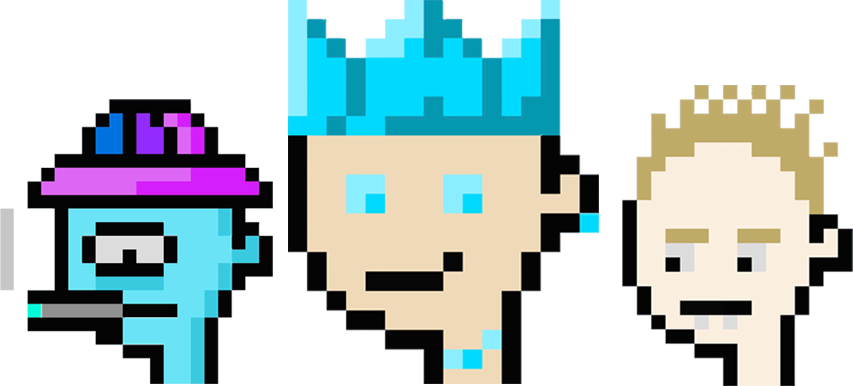
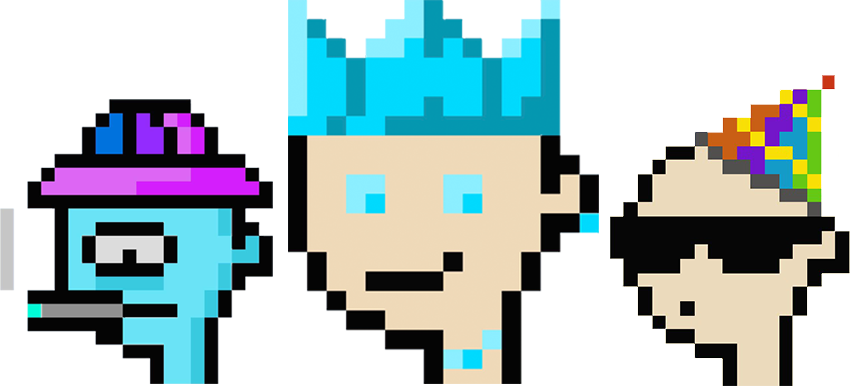
added new team members and updating mint whenever someone mints

Changed region(s): [[0.7011, 0.1865, 1.0, 1.0]]

diff --git a/src/components/Mint.js b/src/components/Mint.js
@@ -2,6 +2,7 @@ import React, { useEffect, useState } from "react";
 import { ethers } from "ethers";
 import { useContracts, useParty } from "../hooks";
 import { useMintQuery } from "../queries";
+import { WalletButton } from "../lib";
 import { usePriorityIsActive, usePriorityProvider } from "../lib/connectors";
 import { LoadingButton } from "../lib/Primitives";
 
@@ -35,6 +36,18 @@ const Mint = () => {
   const amountLeft =
     (totalSupply && maxSupply - totalSupply?.toNumber()) || "loading...";
   const isSoldOut = amountLeft === 0;
+
+  let filter = erc721.filters.Transfer(
+    "0x0000000000000000000000000000000000000000"
+  );
+
+  useEffect(() => {
+    if (provider !== undefined) {
+      erc721.on(filter, async () => {
+        await updateMintState();
+      });
+    }
+  }, [signer]);
 
   const onMintHandler = () => {
     setIsMinting(true);
@@ -88,63 +101,75 @@ const Mint = () => {
         alt="mint"
         className="lg:ml-10 flex-1 w-1/2 lg:w-full"
       />
-      <div className="flex flex-col items-center md:items-start flex-1 mb-20 md:mb-">
-        <h2 className="uppercase text-4xl mb-4">MINT A BABY</h2>
-        <p className="mb-4">
-          {totalSupply ? totalSupply?.toString() : "loading..."}/
-          {maxSupply ? maxSupply.toString() : "loading..."} Minted at each{" "}
-          {pricePS ? ethers.utils.formatEther(pricePS) + " ETH" : "loading..."}
-        </p>
-        <p className="text-center md:text-left">
-          Welcome to BabyBoss exclusive club.
-          <br />
-          Join the revolution by purchasing one of your own!
-        </p>
-        <div className="flex flex-row items-center mt-10">
-          <button
-            className="bg-[#d41efc] rounded-full w-7 h-7 mr-2 hover:ring-2 ring-white"
-            onClick={() => {
-              setAmount((prevAmount) => {
-                if (prevAmount > 1) {
-                  return prevAmount - 1;
-                } else {
-                  return prevAmount;
-                }
-              });
-            }}
-          >
-            -
-          </button>
-          <input
-            type="text"
-            value={amount}
-            readOnly
-            className="rounded-full max-w-[60px] bg-transparent mr-2 text-center"
-          />
-          <button
-            className="bg-[#d41efc] rounded-full w-7 h-7 mr-2 hover:ring-2 ring-white"
-            onClick={() => {
-              setAmount((prevAmount) => {
-                if (prevAmount < 10) {
-                  return prevAmount + 1;
-                } else {
-                  return prevAmount;
-                }
-              });
-            }}
-          >
-            +
-          </button>
-          <LoadingButton
-            loading={isMinting}
-            disabled={!signer || isMinting || isSoldOut}
-            className="bg-[#d41efc] rounded-full w-40 p-2 hover:ring-2 ring-white"
-            onClick={onMintHandler}
-          >
-            Mint A Baby
-          </LoadingButton>
+      {signer && (
+        <div className="flex flex-col items-center md:items-start flex-1 mb-20 md:mb-">
+          <h2 className="uppercase text-4xl mb-4">MINT A BABY</h2>
+
+          <p className="mb-4">
+            {totalSupply ? totalSupply?.toString() : "loading..."}/
+            {maxSupply ? maxSupply.toString() : "loading..."} Minted at each{" "}
+            {pricePS
+              ? ethers.utils.formatEther(pricePS) + " ETH"
+              : "loading..."}
+          </p>
+          <p className="text-center md:text-left">
+            Welcome to BabyBoss exclusive club.
+            <br />
+            Join the revolution by purchasing one of your own!
+          </p>
+          <div className="flex flex-row items-center mt-10">
+            <button
+              className="bg-[#d41efc] rounded-full w-7 h-7 mr-2 hover:ring-2 ring-white"
+              onClick={() => {
+                setAmount((prevAmount) => {
+                  if (prevAmount > 1) {
+                    return prevAmount - 1;
+                  } else {
+                    return prevAmount;
+                  }
+                });
+              }}
+            >
+              -
+            </button>
+            <input
+              type="text"
+              value={amount}
+              readOnly
+              className="rounded-full max-w-[60px] bg-transparent mr-2 text-center"
+            />
+            <button
+              className="bg-[#d41efc] rounded-full w-7 h-7 mr-2 hover:ring-2 ring-white"
+              onClick={() => {
+                setAmount((prevAmount) => {
+                  if (prevAmount < 10) {
+                    return prevAmount + 1;
+                  } else {
+                    return prevAmount;
+                  }
+                });
+              }}
+            >
+              +
+            </button>
+            <LoadingButton
+              loading={isMinting}
+              disabled={!signer || isMinting || isSoldOut}
+              className="bg-[#d41efc] rounded-full w-40 p-2 hover:ring-2 ring-white"
+              onClick={onMintHandler}
+            >
+              Mint A Baby
+            </LoadingButton>
+          </div>
         </div>
-      </div>
+      )}
+      {!signer && (
+        <div className="flex flex-col flex-1 items-center justify-center">
+          <WalletButton className="uppercase p-2 w-50 pt-3 pb-3 pr-6 pl-6 bg-[#1e50ff] rounded-full text-sm hover:ring-2 ring-white text-white">
+            Connect Wallet
+          </WalletButton>
+        </div>
+      )}
     </div>
   );
 };

diff --git a/src/content/index.js b/src/content/index.js
@@ -110,7 +110,7 @@ export default {
       name: "Aleuto72",
       title: "Founder",
       description:
-        "Serve the army since his younger days and is an experienced FX Trader who is well known in Malaysia. Also been in the cryptocurrency space for a few years. Creating this project with a goal to bring in more people into the NFT world and grow the community to benefit them all.",
+        "An experienced Trader who is well known in Malaysia and serve the army since his younger days. Also have been involved in cryptocurrency space for few years already. Currently one of the stongest & biggest supporter in PENTAS NFT platform. Creating this project with a goal to bring in more people into the NFT world and growing the community to benefit them all.",
       image: images.Aleuto,
       socials: {
         twitter: "https://twitter.com/uncletuah",
@@ -119,7 +119,7 @@ export default {
     },
     {
       name: "Nick",
-      title: "Co-Founder",
+      title: "Team Leader",
       description:
         "A wanderer in the metaverse and has been involved in the cryptocurrency space since 2016. Looking forward to making this project as a P2E to make the adoption of gamers more than ever before.",
       image: images.Nick,
@@ -130,10 +130,43 @@ export default {
     },
     {
       name: "Akiboi",
-      title: "Co-Founder/Lead Artist",
+      title: "Lead Artist",
       description:
         "An established architect, who is now with the Nasty Builders, a graduate from Oxford Brookes University who creates all the unique traits of the BabyBoss NFT, and also an advisor for a few other projects before.",
       image: images.Akiboi,
+      socials: {
+        twitter: "https://twitter.com/akiboiii",
+        instagram: "https://www.instagram.com/akiboi.eth/",
+      },
+    },
+    {
+      name: "Karim",
+      title: "Tech Dev",
+      description:
+        "An established architect, who is now with the Nasty Builders, a graduate from Oxford Brookes University who creates all the unique traits of the BabyBoss NFT, and also an advisor for a few other projects before.",
+      image: images.karim,
+      socials: {
+        twitter: "https://twitter.com/akiboiii",
+        instagram: "https://www.instagram.com/akiboi.eth/",
+      },
+    },
+    {
+      name: "Slushy",
+      title: "Marketing",
+      description:
+        "An established architect, who is now with the Nasty Builders, a graduate from Oxford Brookes University who creates all the unique traits of the BabyBoss NFT, and also an advisor for a few other projects before.",
+      image: images.slushy,
+      socials: {
+        twitter: "https://twitter.com/akiboiii",
+        instagram: "https://www.instagram.com/akiboi.eth/",
+      },
+    },
+    {
+      name: "Danish",
+      title: "Community Manager",
+      description:
+        "An established architect, who is now with the Nasty Builders, a graduate from Oxford Brookes University who creates all the unique traits of the BabyBoss NFT, and also an advisor for a few other projects before.",
+      image: images.danish,
       socials: {
         twitter: "https://twitter.com/akiboiii",
         instagram: "https://www.instagram.com/akiboi.eth/",

diff --git a/src/components/Roadmap.js b/src/components/Roadmap.js
@@ -6,13 +6,8 @@ const Roadmap = () => {
     <div id="roadmap">
       <div className="flex flex-col items-center h-fit w-10/12 mx-auto text-sm mb-10 mt-10 sm:mt-0">
         <h2 className="text-5xl m-10 uppercase font-retro text-center">
-          ROAD MAP
+          ROADMAP 1.0
         </h2>
-        {/* <p className="text-center mb-4 w-5/6">
-          Baby Boss S3L Club, is a collection of 3999 super adorable pixelated{" "}
-          <strong>baby NFT's</strong> who are a born on the{" "}
-          <strong>Ethereum blockchain.</strong>
-        </p> */}
       </div>
 
       <div className="container mx-auto">
@@ -89,10 +84,9 @@ const Roadmap = () => {
               <div className="order-1 bg-[#28299f] rounded-2xl shadow-xl px-6 py-4">
                 <p className="text-sm leading-snug tracking-wide text-white text-opacity-100">
                   <span className="font-bold text-[#d41efc]">
-                    **50% SOLD**{" "}
+                    **40% SOLD**{" "}
                   </span>
-                  Airdrop Baby Boss to holder S3L NFT (id 1-100) and OG S3L Club
-                  role
+                  Collaboration with other NFT project
                 </p>
               </div>
             </div>
@@ -103,9 +97,10 @@ const Roadmap = () => {
               <div className="bg-[#28299f] rounded-2xl shadow-xl px-6 py-4">
                 <p className="text-sm leading-snug tracking-wide text-white text-opacity-100">
                   <span className="font-bold text-[#d41efc]">
-                    **40% SOLD**{" "}
+                    **50% SOLD**{" "}
                   </span>
-                  Collaboration with other NFT project
+                  Airdrop Baby Boss to holder S3L NFT (id 1-100) and OG S3L Club
+                  role
                 </p>
               </div>
             </div>

diff --git a/src/components/Footer.js b/src/components/Footer.js
@@ -1,4 +1,5 @@
 import React from "react";
+import Link from "react-scroll/modules/components/Link";
 import content from "../content";
 
 const Footer = () => {
@@ -9,9 +10,14 @@ const Footer = () => {
         <div className="flex flex-col md:flex-row h-full items-center justify-center">
           <div className="flex flex-row mr-0 md:mr-10">
             {content.nav.links.map((item, index) => (
-              <p key={index} className="p-2 sm:p-3 text-sm">
+              <Link
+                key={index}
+                to={item.to}
+                smooth={true}
+                className="p-2 sm:p-3 text-sm cursor-pointer hover:scale-110"
+              >
                 {item.text}
-              </p>
+              </Link>
             ))}
           </div>
           <div className="flex flex-row">
@@ -21,7 +27,7 @@ const Footer = () => {
                 href={item.link}
                 target="_blank"
                 rel="noreferrer"
-                className="rounded-full bg-white mr-2 w-8 h-8 flex items-center justify-center"
+                className="rounded-full bg-white mr-2 w-8 h-8 flex items-center justify-center hover:ring-1 ring-white"
               >
                 {item.icon}
               </a>

diff --git a/src/components/Card.js b/src/components/Card.js
@@ -1,6 +1,5 @@
 import React from "react";
-import { images } from "../constants";
-import { RiFacebookFill, RiTwitterFill, RiInstagramLine } from "react-icons/ri";
+import { RiTwitterFill, RiInstagramLine } from "react-icons/ri";
 
 const Card = ({ image, alt, name, title, description, socials, hover }) => {
   return (
@@ -9,7 +8,7 @@ const Card = ({ image, alt, name, title, description, socials, hover }) => {
       <div className="relative flex flex-col items-center flex-1 bg-white rounded-2xl p-5 h-full group-hover:scale-105">
         <img src={image} alt={alt} className="rounded-2xl mb-2" />
         <h2 className="text-black font-bold mb-2 text-xl ">{name}</h2>
-        <h2 className="text-purple-500 font-bold mb-2">{title}</h2>
+        <h2 className="text-purple-500 font-bold mb-2 text-center">{title}</h2>
         <p className="text-blue-900 mb-6 text-center">{description}</p>
         <div className="absolute flex flex-row gap-x-2 items-center bottom-0 mb-4">
           <a

diff --git a/src/data/genesisSignatures.js b/src/data/genesisSignatures.js
@@ -1,0 +1,9 @@
+export const genesisWhitelist = {
+  "1": {
[2 lines of base64/hex data omitted]
+  },
+  "2": {
[1 lines of base64/hex data omitted]
+  }
+}

diff --git a/src/data/presaleSignatures.js b/src/data/presaleSignatures.js
@@ -1,0 +1,9 @@
+export const presaleWhitelist = {
+  "1": {
[2 lines of base64/hex data omitted]
+  },
+  "2": {
[1 lines of base64/hex data omitted]
+  }
+}

diff --git a/src/components/Dashboard.js b/src/components/Dashboard.js
@@ -13,7 +13,7 @@ const Dashboard = () => {
               <h4 className="text-sm md:text-xl font-bold">3999 NFT</h4>
             </div>
             <div className="flex flex-col items-center justify-center uppercase p-2 pr-4">
-              <h4 className="text-sm md:text-xl font-bold">150 UNIQUE TRAIT</h4>
+              <h4 className="text-sm md:text-xl font-bold">113 UNIQUE TRAIT</h4>
             </div>
             <div className="flex flex-col items-center justify-center uppercase p-2">
               <h4 className="text-sm md:text-xl font-bold">10 1/1 ARTIST</h4>

diff --git a/src/components/Header.js b/src/components/Header.js
@@ -25,10 +25,7 @@ const Header = () => {
         <img src={images.header2} alt="Baby boss header" className="" />
       </div>
 
-      <h2 className="text-4xl md:text-5xl m-10 uppercase font-retro">
-        DESCRIPTION
-      </h2>
-      <p className="text-center mb-4 w-5/6 text-xs md:text-sm">
+      <p className="text-center mb-4 w-5/6 text-xs md:text-sm mt-10">
         Baby Boss S3L Club, is a collection of 3999 super adorable pixelated{" "}
         <strong>baby NFT's</strong> who are a born on the{" "}
         <strong>Ethereum blockchain.</strong>

diff --git a/src/constants/images.js b/src/constants/images.js
@@ -14,6 +14,9 @@ import mint from "../assets/images/mint.png";
 import Aleuto from "../assets/images/Aleuto.jpg";
 import Akiboi from "../assets/images/Akiboi.jpg";
 import Nick from "../assets/images/Nick.jpg";
+import karim from "../assets/images/karim.jpeg";
+import slushy from "../assets/images/slushy.jpeg";
+import danish from "../assets/images/danish.jpeg";
 import rb from "../assets/logos/rb.svg";
 import bbheader from "../assets/logos/bbheader.jpeg";
 
@@ -36,4 +39,7 @@ export default {
   Nick,
   rb,
   bbheader,
+  karim,
+  slushy,
+  danish,
 };

diff --git a/src/components/Team.js b/src/components/Team.js
@@ -12,7 +12,7 @@ const Team = () => {
       {/* <p className="text-center mb-10 text-sm w-4/6">
         {content.faq.description}
       </p> */}
-      <div className="grid grid-cols-1 gap-y-5 md:grid-cols-3 gap-x-5">
+      <div className="grid grid-cols-1 gap-y-5 md:grid-cols-2 lg:grid-cols-3 gap-x-5">
         {content.team.map((item, index) => (
           <Card
             key={index}
